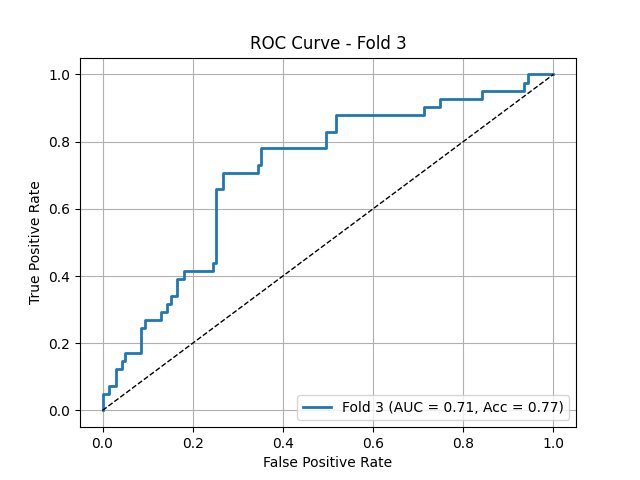
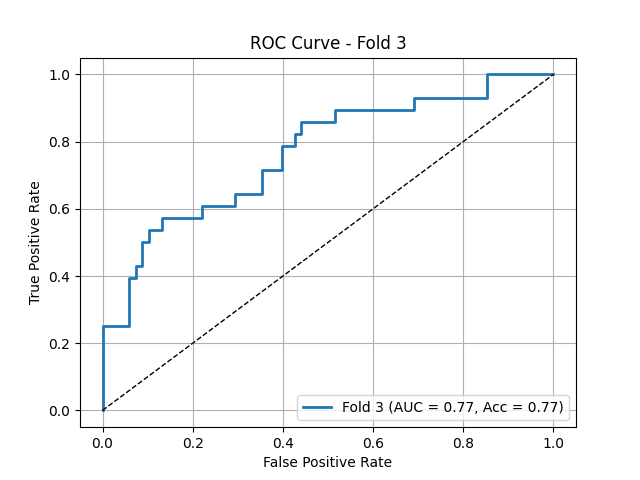
average score from all 4 models

diff --git a/models_onlytorch.py b/models_onlytorch.py
@@ -376,8 +376,12 @@ class BinaryClassificationTorch(nn.Module):
                 else:
                     x, x2, y = batch
                     x, x2, y = x.to(device), x2.to(device), y.to(device)
-                    scores, _ = self.forward(x, x2)
+                    scores, scores2 = self.forward(x, x2)
 
+                    scores2 = scores2.mean(dim = -1)
+
+                    for  s in scores2: 
+                        scores += s.mean(dim = -1)*0.1
                 probs = torch.sigmoid(scores)
                 all_probs.append(probs.cpu())
                 all_targets.append(y.cpu())
